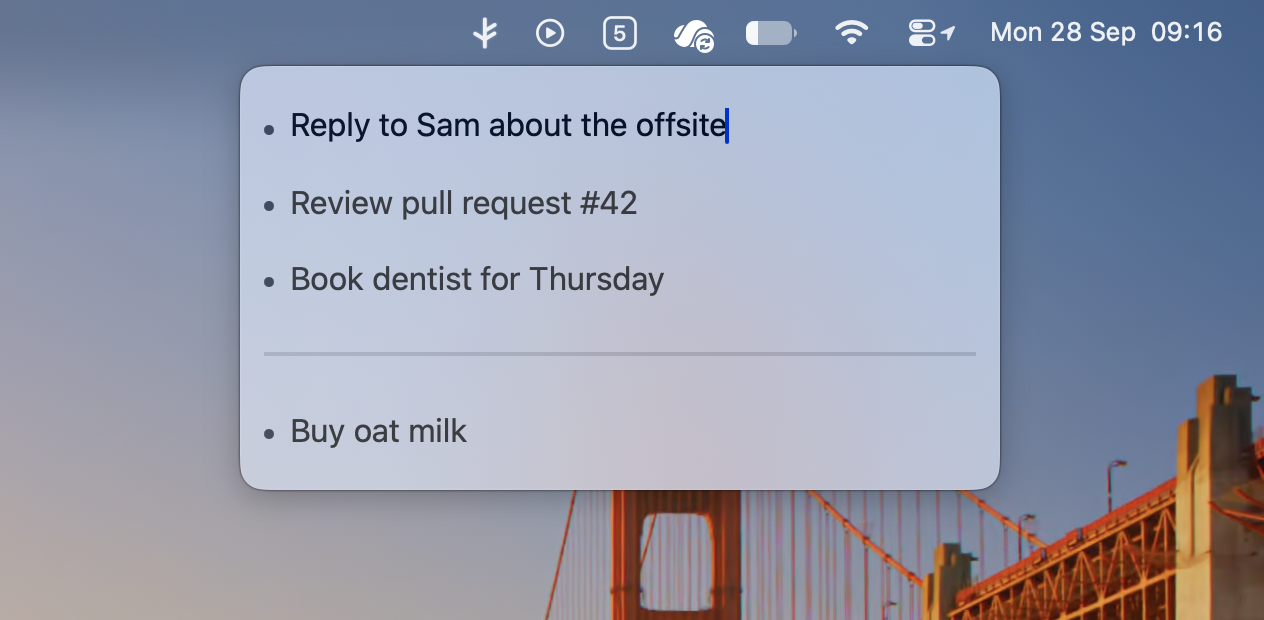
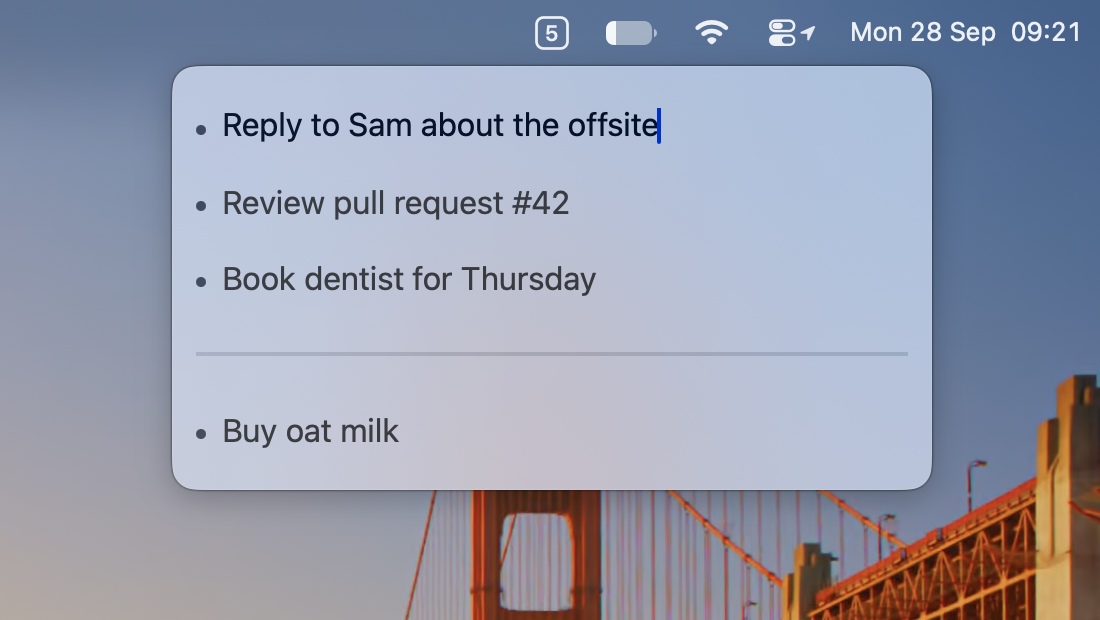
Retake screenshot with a cleaner menu bar

Changed region(s): [[0.3709, 0.0306, 1.0, 1.0], [0.1545, 0.0919, 0.6182, 0.7968]]

diff --git a/index.html b/index.html
@@ -145,7 +145,7 @@
   </div>
 
   <figure>
-    <img src="assets/screenshot.png" width="1264" height="620" alt="Hem's list open under its menu bar badge, showing four tasks and a divider">
+    <img src="assets/screenshot.png" width="1100" height="620" alt="Hem's list open under its menu bar badge, showing four tasks and a divider">
   </figure>
 
   <h2>How it works</h2>
